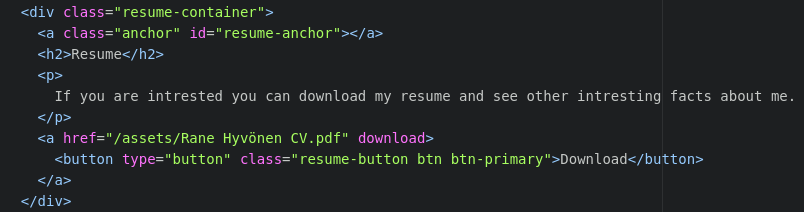
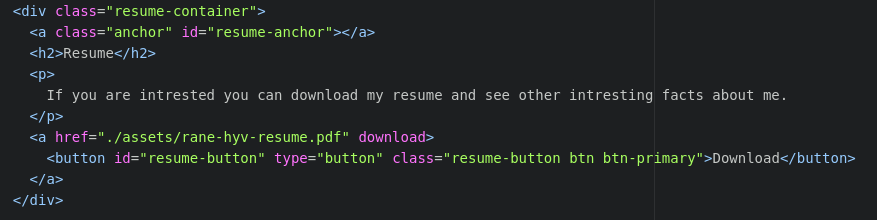
Added Google Analytics documentation

diff --git a/index.css b/index.css
@@ -1,10 +1,5 @@
-/* * {
-    margin: 0;
-    padding: 0;
-    box-sizing: border-box;
-} */
 html, body {
-  /* scroll-behavior: smooth; */
+  scroll-behavior: smooth;
   overflow-x: hidden;
 }
 
@@ -379,7 +374,7 @@ a.socialIcon:hover, .socialHoverClass {
   max-width: 50rem;
 }
 
-.h3 {
+.certification-container h3 {
   margin-top: 0.75rem;
   font-size: 1.5rem;
   margin-left: auto;

diff --git a/google-analytics/README.md b/google-analytics/README.md
@@ -1,5 +1,9 @@
 # Google Analytics
 
+## Task
+Install Google Analytics tracking to page and track how many people have
+downloaded the resume and build the resume download section.
+
 ## Plan
 The project will be divided into 4 parts. The parts are research/relearn,
 implementation, fine tuning / bug fixes (if needed) & documentation.
@@ -26,6 +30,15 @@ This should be okay for a simple download section.
 
 ## Implementation
 
+### Website Download Section
+Code:
+![html-code](/assets/download-code.png)
+
+Visual:
+![html-download](/assets/download-section.png)
+
++Added Resume section to Navbar
+
 ### Google Analytics Setup
 Inital Setup / Tryout:
 1. Created the following:
@@ -42,16 +55,64 @@ Inital Setup / Tryout:
 Result:
 ![inital-analytics-setup](/assets/initial-js-result.png)
 
-Now I know the JS-plugins, popper and analythics works.
-The rest is about setuping up specific event tracking and tag manager
+Now I know the JS-plugins, popper and analytics works.
+The rest is about setting up specific event tracking and tag manager
 
-### Website Download Section
-Code:
-![html-code](/assets/download-code.png)
+### Tag Manager Setup
+First, I did the basic setup (Create account and container).
+After that I fiddled around a bit, played with the debug tool and
+checked how the "new" Google Tag Manager and Google Analytics 4 worked together.
 
-Visual:
-![html-download](/assets/download-section.png)
+
+Note: The content was different from certification material
+
+
+I ended up creating 2 tags and 2 triggers. First tag is for all basic Google
+Analytics (tracks same things as original GA setup) and second one was for
+resume download event.
+
+Trigger used by 1st tag is all pages and the resume event uses click element
+trigger with id and url path restrictions to limit it to activate only on
+specific website and element.
+
+Tags:
+![tag-list](/assets/tags-list.png)
+
+Resume Download:
+![resume-download-tag](/assets/resume-download-tag.png)
+
+Triggers:
+![all-pages-trigger](/assets/all-pages-trigger.png)
+
+![resume-download-trigger](/assets/resume-trigger.png)
+
+### Problems
+
+1. GA4 made many things learned from Google Academy "pointless". The fundamentals
+are there but many things don't work like portrayed. Maybe some old accounts still
+have that old system in place but fresh accounts seem to use GA4 to my knowledge...
+2.  GA4 affected views so I don't know exactly as of now how it works now
+(refer to planning phase on views)
+3. Had a dumb mistake where the cv would not download but the issue was I forgot
+the . from  href="./"
 
 
 
 ## Finished Job / TL;DR
+Everything shows up in Google Analytics page and resume downloads have specific
+event to show download numbers.
+
+Demograph View:
+![demograph-view](/assets/demograph-overview.png)
+
+Tech View:
+![tech-view](/assets/tech-overview.png)
+
+In events section you can see the general download traker and different
+naming versions of resume download. Current is called "resume_download_github".
+
+Event View:
+![event-view](/assets/event-overview.png)
+
+System Overview:
+![system-overview](/assets/system-overview.jpg)
